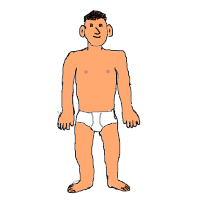
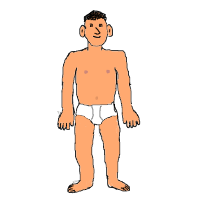
Added beginning functionality for overlaying outfit pieces

Changed region(s): [[0.36, 0.48, 0.63, 0.69]]

diff --git a/index.html b/index.html
@@ -4,15 +4,18 @@
         <link rel="stylesheet" type="text/css" href="style.css">
     </head>
     <body>
-        <div id="alonzo">
-            <img src="image/alonzo.png" alt="alonzo"/>
-            <br/>
-            <select id="options" onChange="OnDropdownChange()">
-              <option value="shirts">Shirts</option>
-              <option value="pants">Pants</option>
-              <option value="socks">Socks</option>
-              <option value="shoes">Shoes</option>
-            </select>
+        <div id="container">
+            <div id="alonzo">
+                <img src="image/alonzo.png" alt="alonzo"/>
+                <img src="image/shirt.png" alt="shirt" id="shirt"/>
+                <br/>
+                <select id="options" onChange="OnDropdownChange()">
+                  <option value="shirts">Shirts</option>
+                  <option value="pants">Pants</option>
+                  <option value="socks">Socks</option>
+                  <option value="shoes">Shoes</option>
+                </select>
+            </div>
         </div>
         <div id="clothes">
             Choose socks to see a change

diff --git a/style.css b/style.css
@@ -1,6 +1,12 @@
-#alonzo {
+#container {
     margin: 0 auto;
-    width: 500px;
+    width: 500px;;
+}
+
+#alonzo {
+    width: 200px;
+    padding: 0px;
+    position: relative;
 }
 
 #clothes {
@@ -8,4 +14,10 @@
     margin: 0 auto;
     overflow: auto;
     height: 60%; 
+}
+
+#shirt {
+    position: absolute;
+    bottom: 17px;
+    right: 0px;
 }
